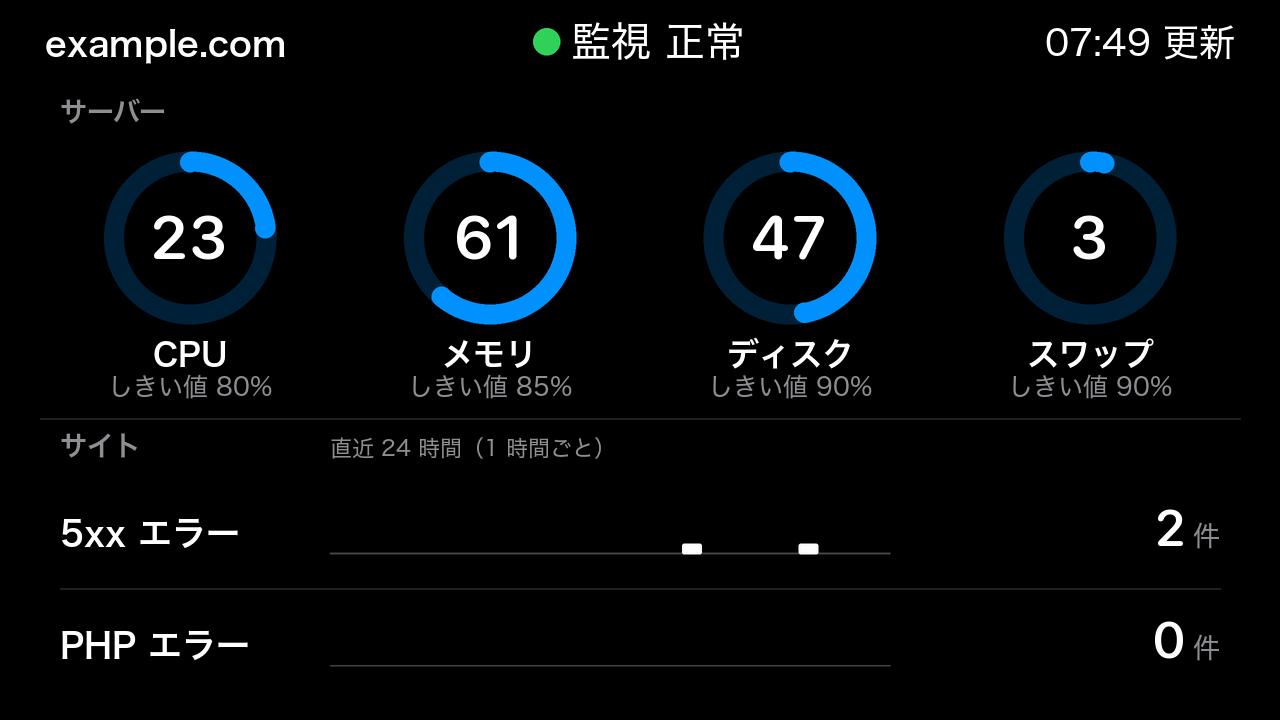
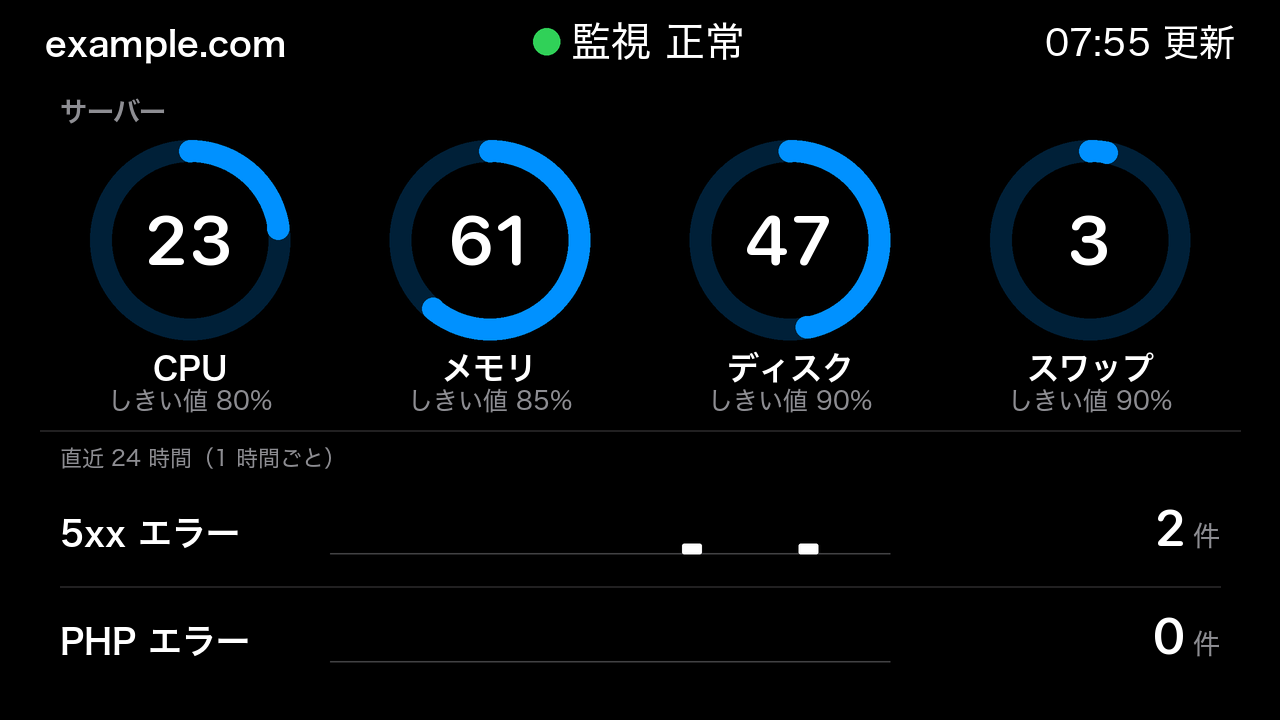
feat(monitor): 5.2 インチの「サイト」の小見出しを消し、その分リングを大きくする
「直近 24 時間（1 時間ごと）」を左端にそろえ、縦の間を詰めて、リングを外径 172→200 px・数字 61→70 px にした
（ユーザーの指示。docs/handover.md §4-26）。

diff --git a/claude_usage_display/monitor_screen.py b/claude_usage_display/monitor_screen.py
@@ -129,13 +129,15 @@ def _px(value: float) -> float:
 
 LANDSCAPE_LARGE = replace(
     LANDSCAPE, size=(_W_LARGE, 320), k=_K_LARGE, pill=(round(_W_LARGE / 2 - 124), 4, round(_W_LARGE / 2 + 124), 34),
+    # 「サイト」の小見出しを消し、「直近 24 時間」を左端にそろえ、縦の間を詰めた分でリングを外径 172→200 px・
+    # 数字 61→70 px にした（同日、ユーザーの指示）
     cells=tuple((_px(190 + 300 * i), 0) for i in range(4)),  # リングの中心の x（区画は幅 300 px で 4 つ）
-    ring=(0, _px(238), _px(86), _px(20)), label=(0, _px(366), "ms", 14), number=(0, _px(259), 27, 0, True),
-    threshold=(0, _px(396), "ms", 11), dividers=((_px(40), _px(418), _px(1240), _px(418)),),
-    headings=((_px(60), _px(122), "サーバー", 12, 6, "ls"), (_px(60), _px(456), "サイト", 12, 6, "ls"),
-              (_px(330), _px(456), "直近 24 時間（1 時間ごと）", 10, SMALL_WEIGHT, "ls")),
-    counter_rows=_CounterRows(top=_px(476), height=_px(112), left=_px(60), right=_px(1220), baseline=_px(70),
-                              spark=(_px(330), _px(560), _px(52), _px(78)), label_size=15, number_size=22,
+    ring=(0, _px(240), _px(100), _px(22)), label=(0, _px(380), "ms", 14), number=(0, _px(265), 31, 0, True),
+    threshold=(0, _px(410), "ms", 11), dividers=((_px(40), _px(430), _px(1240), _px(430)),),
+    headings=((_px(60), _px(122), "サーバー", 12, 6, "ls"),
+              (_px(60), _px(466), "直近 24 時間（1 時間ごと）", 10, SMALL_WEIGHT, "ls")),
+    counter_rows=_CounterRows(top=_px(478), height=_px(108), left=_px(60), right=_px(1220), baseline=_px(68),
+                              spark=(_px(330), _px(560), _px(52), _px(76)), label_size=15, number_size=22,
                               unit_size=12))
 
 

diff --git a/docs/handover.md b/docs/handover.md
@@ -511,6 +511,7 @@ scripts/uninstall-launch-agent.sh                                 # 自動起動
   - `monitor_screen.LANDSCAPE_LARGE`: 見出しは同じ。その下を「サーバー」（4 つのリングを横 1 列）と「サイト」（件数の 2 行。左に名前・中ほどに 1 時間ごとの棒グラフ・右に 24 時間の件数）に分け、灰色の小見出しを付けた。Apple の HIG の Layout（関係する項目をまとめる・重要なものを上と左に）と Lists and tables（グループ化した一覧）を手本にした（HIG の本文は `https://developer.apple.com/tutorials/data/design/human-interface-guidelines/<ページ>.json` で読んだ）。異常の文言が 2 行の帯になると「サーバー」の小見出しに重なるので、そのときは描かない。3.5 インチの配置は変えていない（件数の異常で赤になり、帯に文言が出る）。3.5 インチの 66 通りが HEAD と 1 ピクセルも違わないことを確かめた
   - `monitor.example.toml` に 2 つの例（架空の名前空間）を足した。この Mac の `monitor.toml` に、サービスの 2 つのメトリクス（アラームと同じ件数）を足した
   - テスト: `CounterTest`（3 件）・設定の件数の読み込み・取得の呼び出し方・画面（リングの列、棒と件数の赤、件数の異常で赤、2 行の帯の下の小見出し）
+- **「サイト」の小見出しを消し、リングを大きくした**（同日、ユーザーの指示「サイトの文字は不要。直近 24 時間を左寄せに。それがなくなった分はサークルを大きくして」）。「直近 24 時間（1 時間ごと）」を左端（名前と同じ）にそろえ、縦の間を詰めて、リングを外径 172→200 px・太さ 20→22 px・数字 61→70 px にした（区切り線 418→430、件数の行 476〜700 → 478〜694）。2 行の異常の帯の下端（121.5 px）とリングの上端（140 px）は重ならない
 
 ## 5. 残っている作業（上から順に）
 
